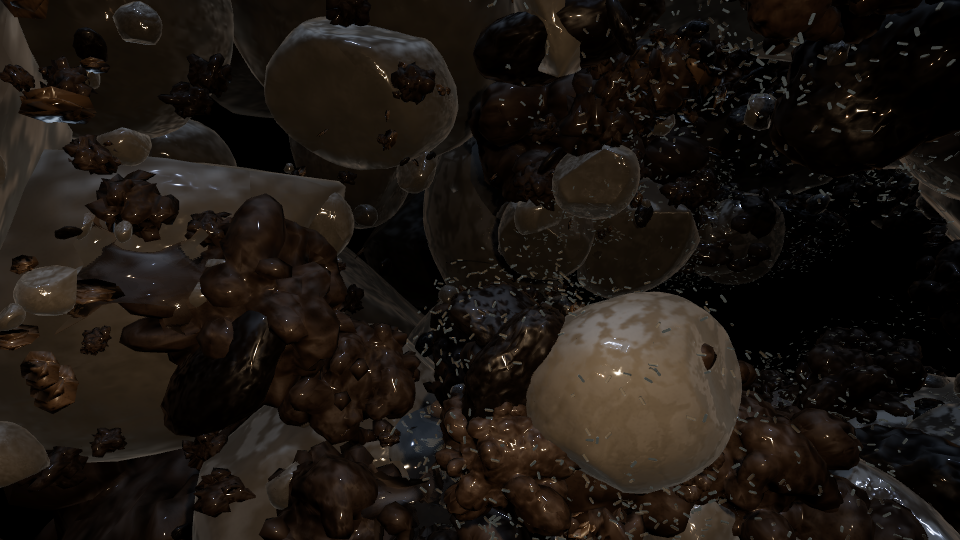
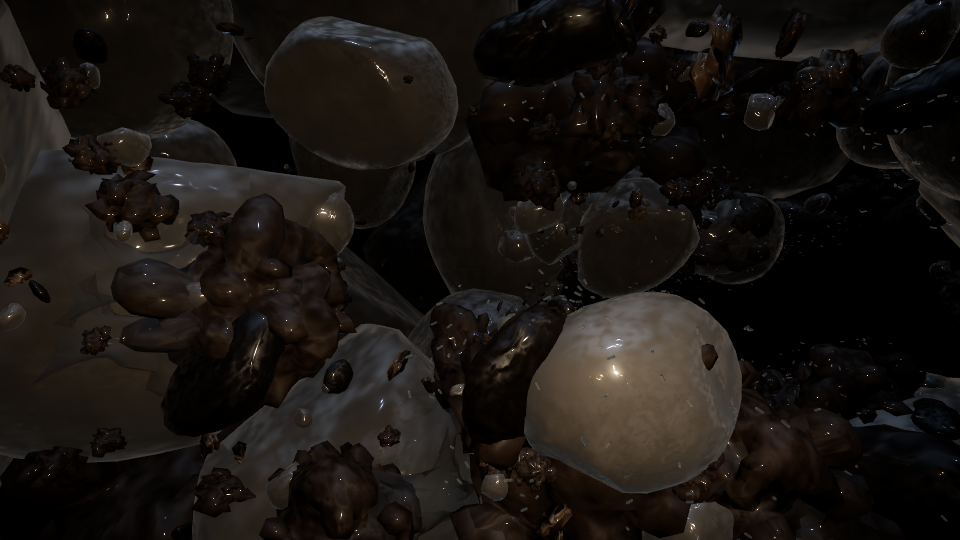
UNDERSOIL M1: loading screen, post-processing, demo sequence, simple controls, VR page on shared game
Claude-Session: https://claude.ai/code/session_01HXHWaeyj425ipGMnohy3Vo

diff --git a/undersoil/src/pages/vr.ts b/undersoil/src/pages/vr.ts
@@ -1,77 +1,87 @@
 import * as THREE from 'three/webgpu';
 import '../ui/base.css';
+import '../ui/game.css';
 import { createRenderer } from '../core/renderer';
+import { setProgressListener } from '../core/assets';
 import { detectDevice } from '../core/platform';
-import { buildMinScene } from './minscene';
+import { createGame } from '../game/game';
+import { makeDemo } from '../game/demo';
+import { pushOut } from '../game/controls';
 import { makeHud } from './hud';
 
 const errors: string[] = [];
 addEventListener('error', (e) => errors.push(e.message));
 addEventListener('unhandledrejection', (e) => errors.push(String(e.reason)));
 const W = window as unknown as Record<string, unknown>;
+const $ = (id: string) => document.getElementById(id)!;
+/** VR の中での縮尺：身長 1.7 m の人が、土の中では 2 単位（20 µm）になる */
+const RIG_SCALE = 2 / 1.7;
 
 async function main() {
-  const canvas = document.getElementById('view') as HTMLCanvasElement;
-  const btn = document.getElementById('enterVR') as HTMLButtonElement;
-  const msg = document.getElementById('vrMsg')!;
+  const canvas = $('view') as HTMLCanvasElement;
+  const btn = $('enterVR') as HTMLButtonElement; const msg = $('vrMsg');
   const device = detectDevice();
+  setProgressListener((d, t) => { msg.textContent = `読み込み中… ${Math.round((d / Math.max(1, t)) * 100)}%`; });
   // VR 中は WebGL 2 で動かす（Quest 3 のブラウザでは VR 中の WebGPU がまだ試験的なため）
   const { renderer, isWebGPU } = await createRenderer(canvas, 'webgl2', { xr: true });
-  renderer.xr.enabled = true;
-  renderer.xr.setReferenceSpaceType('local-floor');
-  renderer.xr.setFoveation(1);
-  const hud = makeHud(document.getElementById('hud')!, { device, isWebGPU, tier: 'vr' });
-  const { scene, group } = await buildMinScene('../', { vr: true, count: 60 });
-  // 座った目の高さ（約1.2m）の前方に粒を置く
-  group.position.set(0, 1.2, -1.6); group.scale.setScalar(0.45);
-  const rig = new THREE.Group(); scene.add(rig);
-  const camera = new THREE.PerspectiveCamera(70, 1, 0.05, 100);
-  camera.position.set(0, 1.2, 0); rig.add(camera);
-  const resize = () => {
-    if (renderer.xr.isPresenting) return;
-    renderer.setPixelRatio(Math.min(devicePixelRatio, 2)); renderer.setSize(innerWidth, innerHeight, false);
-    camera.aspect = innerWidth / innerHeight; camera.updateProjectionMatrix();
-  };
+  renderer.xr.enabled = true; renderer.xr.setReferenceSpaceType('local-floor'); renderer.xr.setFoveation(1);
+  const hud = makeHud($('hud'), { device, isWebGPU, tier: 'vr' });
+  const game = await createGame(renderer, '../', 'vr');
+  const { scene, camera, world } = game;
+  // リグ：プレイヤーの体の位置。カメラ（頭）はこの中で、ヘッドセットの動きだけで動く。演出でカメラを勝手に動かさない
+  const rig = new THREE.Group(); rig.scale.setScalar(RIG_SCALE); scene.add(rig); rig.add(camera);
+  const start = world.path.getPointAt(0.03); rig.position.copy(start); rig.position.y -= 1.2;
+  const ahead = world.path.getPointAt(0.09); rig.rotation.y = Math.atan2(-(ahead.x - start.x), -(ahead.z - start.z));
+  camera.position.set(0, 1.25, 0); // ヘッドセットなしの確認用：座った目の高さ
+  const demo = makeDemo(world);
+  const resize = () => { if (renderer.xr.isPresenting) return; renderer.setPixelRatio(Math.min(devicePixelRatio, 1.5)); renderer.setSize(innerWidth, innerHeight, false); camera.aspect = innerWidth / innerHeight; camera.updateProjectionMatrix(); };
   addEventListener('resize', resize); resize();
 
   // 画面上での見回し（ヘッドセットなしの確認用）
   let yaw = 0, pitch = 0, drag = false, px = 0, py = 0;
   canvas.addEventListener('pointerdown', (e) => { drag = true; px = e.clientX; py = e.clientY; });
   addEventListener('pointerup', () => { drag = false; });
-  addEventListener('pointermove', (e) => {
-    if (!drag || renderer.xr.isPresenting) return;
-    yaw -= (e.clientX - px) * 0.004; pitch = Math.max(-1.2, Math.min(1.2, pitch - (e.clientY - py) * 0.004)); px = e.clientX; py = e.clientY;
-  });
+  addEventListener('pointermove', (e) => { if (!drag || renderer.xr.isPresenting) return; yaw -= (e.clientX - px) * 0.004; pitch = Math.max(-1.2, Math.min(1.2, pitch - (e.clientY - py) * 0.004)); px = e.clientX; py = e.clientY; });
 
   const xr = (navigator as Navigator & { xr?: XRSystem }).xr;
   let supported = false;
   try { supported = !!xr && await xr.isSessionSupported('immersive-vr'); } catch { supported = false; }
-  if (!supported) {
-    btn.disabled = true;
-    msg.textContent = xr ? 'このブラウザは VR に対応していません。Meta Quest 3 の標準ブラウザで開いてください。画面をドラッグすると見回せます。'
-      : 'WebXR が使えません。Meta Quest 3 の標準ブラウザで開いてください。画面をドラッグすると見回せます。';
-  } else {
-    msg.textContent = '座って遊ぶのがおすすめです。ときどき休憩をとり、気分が悪くなったらすぐに中断してください。';
-  }
+  await renderer.compileAsync(scene, camera);
+  if (!supported) { btn.disabled = true; msg.textContent = 'このブラウザは VR に対応していません。Meta Quest 3 の標準ブラウザで開いてください。画面をドラッグすると見回せます。'; }
+  else msg.textContent = '座って遊ぶのがおすすめです。左スティックで移動、右スティックで向きを変えます。ときどき休憩をとり、気分が悪くなったらすぐに中断してください。';
+  setTimeout(() => demo.start(), 4000);
   let session: XRSession | null = null;
   btn.addEventListener('click', async () => {
     if (session) { await session.end(); return; }
     try {
       session = await xr!.requestSession('immersive-vr', { optionalFeatures: ['local-floor', 'bounded-floor', 'hand-tracking'] });
-      session.addEventListener('end', () => { session = null; btn.textContent = 'VR で遊ぶ'; document.body.classList.remove('in-vr'); resize(); });
+      session.addEventListener('end', () => { session = null; btn.textContent = 'VR で遊ぶ'; document.body.classList.remove('in-vr'); camera.position.set(0, 1.25, 0); resize(); });
       await renderer.xr.setSession(session);
       btn.textContent = 'VR を終了'; document.body.classList.add('in-vr');
     } catch (e) { msg.textContent = 'VR を開始できませんでした：' + (e as Error).message; errors.push(String(e)); }
   });
 
-  let frames = 0;
+  // 移動：左スティックで、頭の向きへなめらかに（速度は控えめ、加減速は穏やか）。右スティックは 30 度ずつ向きを変える
+  const vel = new THREE.Vector3(), want = new THREE.Vector3(), head = new THREE.Vector3(), fwd = new THREE.Vector3(), right = new THREE.Vector3(), q = new THREE.Quaternion();
+  let snapReady = true, frames = 0, last = 0;
   renderer.setAnimationLoop((now: number) => {
-    const t = now / 1000;
-    group.rotation.y = t * 0.2;
-    if (!renderer.xr.isPresenting) camera.rotation.set(pitch, yaw, 0, 'YXZ');
+    const dt = last ? Math.min(0.1, (now - last) / 1000) : 0; last = now;
+    if (renderer.xr.isPresenting && session) {
+      let mx = 0, mz = 0, tx = 0;
+      for (const src of session.inputSources) { const a = src.gamepad?.axes; if (!a) continue; const x = a[2] ?? a[0] ?? 0, y = a[3] ?? a[1] ?? 0; if (src.handedness === 'left') { mx = Math.abs(x) > 0.15 ? x : 0; mz = Math.abs(y) > 0.15 ? y : 0; } else if (src.handedness === 'right') tx = x; }
+      if (Math.abs(tx) > 0.6 && snapReady) { rig.rotation.y -= Math.sign(tx) * Math.PI / 6; snapReady = false; } else if (Math.abs(tx) < 0.3) snapReady = true;
+      const xrCam = renderer.xr.getCamera(); xrCam.getWorldQuaternion(q);
+      fwd.set(0, 0, -1).applyQuaternion(q); right.set(1, 0, 0).applyQuaternion(q);
+      want.set(0, 0, 0).addScaledVector(fwd, -mz).addScaledVector(right, mx); if (want.lengthSq() > 1) want.normalize();
+      vel.lerp(want.multiplyScalar(3.2), 1 - Math.exp(-dt * 3));
+      rig.position.addScaledVector(vel, dt);
+      // 頭の位置で粒との当たりを取り、ずれた分だけ体を戻す
+      xrCam.getWorldPosition(head); const before = head.clone(); pushOut(head, world.colliders, 0.7); rig.position.add(head.sub(before));
+    } else camera.rotation.set(pitch, yaw, 0, 'YXZ');
+    demo.update(dt); game.update(dt, now / 1000);
     renderer.render(scene, camera);
     hud.tick(now); frames++;
-    W.__state = { ready: frames > 3, frames, isWebGPU, supported, presenting: renderer.xr.isPresenting, errors };
+    W.__state = { ready: frames > 3, frames, isWebGPU, supported, presenting: renderer.xr.isPresenting, errors, stats: world.stats };
   });
 }
-main().catch((e) => { errors.push(String(e)); console.error(e); W.__state = { ready: false, failed: true, errors }; });
+main().catch((e) => { errors.push(String(e)); console.error(e); $('vrMsg').textContent = '起動に失敗しました：' + String(e); W.__state = { ready: false, failed: true, errors }; });

diff --git a/undersoil/src/pages/screen.ts b/undersoil/src/pages/screen.ts
@@ -1,8 +1,14 @@
 import * as THREE from 'three/webgpu';
 import '../ui/base.css';
+import '../ui/game.css';
+import facts from '../data/facts.json';
 import { createRenderer } from '../core/renderer';
+import { setProgressListener } from '../core/assets';
 import { detectDevice, pickTier, rendererPref, type QualityTier } from '../core/platform';
 import { createGame } from '../game/game';
+import { makeFreeControls } from '../game/controls';
+import { makeDemo } from '../game/demo';
+import { makePost } from '../game/post';
 import { makeHud } from './hud';
 
 const errors: string[] = [];
@@ -10,40 +16,78 @@ addEventListener('error', (e) => errors.push(e.message));
 addEventListener('unhandledrejection', (e) => errors.push(String(e.reason)));
 const W = window as unknown as Record<string, unknown>;
 const Q = new URLSearchParams(location.search);
+const $ = (id: string) => document.getElementById(id)!;
+
+function runFacts() {
+  const list = facts as { name: string; text: string }[]; if (!list.length) return () => {};
+  let i = Math.floor(Math.random() * list.length); const el = $('fact');
+  const show = () => { const f = list[i++ % list.length]; el.style.opacity = '0'; setTimeout(() => { el.innerHTML = ''; const s = document.createElement('small'); s.textContent = f.name; el.append(s, document.createTextNode(f.text)); el.style.opacity = '.92'; }, 400); };
+  show(); const id = setInterval(show, 5200); return () => clearInterval(id);
+}
 
 async function main() {
-  const canvas = document.getElementById('view') as HTMLCanvasElement;
+  const canvas = $('view') as HTMLCanvasElement;
   const device = detectDevice();
+  if (Q.has('clean')) document.body.classList.add('clean');
+  const stopFacts = runFacts();
+  setProgressListener((d, t) => { ($('loadBar') as HTMLElement).style.width = `${Math.round((d / Math.max(1, t)) * 90)}%`; });
   const { renderer, isWebGPU, fallbackReason } = await createRenderer(canvas, rendererPref());
   const tier = (Q.get('tier') as QualityTier | null) ?? pickTier(device, isWebGPU);
-  const hud = makeHud(document.getElementById('hud')!, { device, isWebGPU, tier, note: fallbackReason });
+  const hud = makeHud($('hud'), { device, isWebGPU, tier, note: fallbackReason });
   const game = await createGame(renderer, './', tier);
   const { scene, camera, world } = game;
   renderer.shadowMap.enabled = game.q.shadows > 0;
-  renderer.toneMappingExposure = 1.0;
+  const post = Q.has('nopost') || !game.q.post.length ? null : makePost(renderer, scene, camera, game.q.post);
   const resize = () => {
     renderer.setPixelRatio(Math.min(devicePixelRatio, game.q.maxDpr)); renderer.setSize(innerWidth, innerHeight, false);
     camera.aspect = innerWidth / innerHeight; camera.updateProjectionMatrix();
   };
-  addEventListener('resize', resize); resize();
-  if (device === 'quest') document.getElementById('toVR')!.classList.add('primary');
-  // 確認用：?cam=0..1（道のりの位置）、?wet=0..1（全区画の濡れ）、?t=秒（時間を固定）
-  const camT = Q.get('cam'), wetQ = Q.get('wet'), fixedT = Q.get('t');
-  const freeze = Number(Q.get('freeze') ?? 0); // 確認用：このコマ数だけ描いて止める（ソフトウェア描画での撮影用）
+  addEventListener('resize', resize); addEventListener('orientationchange', resize); resize();
+  if (device === 'quest') $('toVR').classList.add('primary');
+
+  // 確認用：?cam=0..1（道のりの位置）、?wet=0..1（全区画の濡れ）、?t=秒（時間を固定）、?freeze=コマ数、?pos=x,y,z,lx,ly,lz
+  const camT = Q.get('cam'), wetQ = Q.get('wet'), fixedT = Q.get('t'), dbg = Q.get('pos');
+  const freeze = Number(Q.get('freeze') ?? 0);
+  const testing = camT !== null || dbg !== null || freeze > 0;
   if (wetQ !== null) game.setWetAll(Number(wetQ));
-  const look = new THREE.Vector3(); let frames = 0, last = 0;
+  const demo = makeDemo(world);
+  const controls = makeFreeControls(camera, canvas, world.colliders, $('stick'));
+  let touring = true; controls.enabled = false;
+  const look = new THREE.Vector3();
+  const placeOnPath = (u: number) => { world.path.getPointAt(Math.min(0.985, u), camera.position); world.path.getPointAt(Math.min(1, u + 0.06), look); camera.position.y += 1.0; camera.lookAt(look); };
+  placeOnPath(0.02);
+
+  // シェーダーの初回コンパイルの引っかかりを避けるため、読み込み中に準備しておく
+  await renderer.compileAsync(scene, camera);
+  ($('loadBar') as HTMLElement).style.width = '100%';
+  const begin = () => { $('loading').classList.add('hide'); stopFacts(); if (wetQ === null && !testing) setTimeout(() => demo.start(), 2500); };
+  if (testing) begin(); else { const b = $('start') as HTMLButtonElement; b.hidden = false; b.addEventListener('click', begin, { once: true }); }
+
+  $('water').addEventListener('click', () => demo.start());
+  $('dry').addEventListener('click', () => demo.dry());
+  $('tour').addEventListener('click', () => {
+    touring = !touring; controls.enabled = !touring; $('tour').textContent = touring ? '自分で動く' : '自動で巡る';
+    if (!touring) { const e = new THREE.Euler().setFromQuaternion(camera.quaternion, 'YXZ'); controls.yaw = e.y; controls.pitch = e.x; }
+  });
+  $('fs').addEventListener('click', () => { if (document.fullscreenElement) void document.exitFullscreen(); else void document.documentElement.requestFullscreen?.().catch(() => {}); });
+  if (!document.documentElement.requestFullscreen) $('fs').style.display = 'none';
+  let hidden = false; document.addEventListener('visibilitychange', () => { hidden = document.hidden; last = 0; });
+
+  let frames = 0, last = 0, tourU = 0.02, vitShown = -1;
   renderer.setAnimationLoop((now: number) => {
+    if (hidden) return;
     const t = fixedT !== null ? Number(fixedT) : now / 1000; const dt = last ? Math.min(0.1, (now - last) / 1000) : 0; last = now;
-    const u = camT !== null ? Number(camT) : (Math.sin(t * 0.05 - 1.5) * 0.5 + 0.5) * 0.9;
-    world.path.getPointAt(Math.min(0.985, u), camera.position); world.path.getPointAt(Math.min(1, u + 0.06), look);
-    camera.position.y += 1.0;
-    const dbg = Q.get('pos'); if (dbg) { const v = dbg.split(',').map(Number); camera.position.set(v[0], v[1], v[2]); look.set(v[3], v[4], v[5]); }
-    camera.lookAt(look);
-    if (wetQ === null) game.update(dt, t);
-    renderer.render(scene, camera);
+    if (dbg) { const v = dbg.split(',').map(Number); camera.position.set(v[0], v[1], v[2]); camera.lookAt(v[3], v[4], v[5]); }
+    else if (camT !== null) placeOnPath(Number(camT));
+    else if (touring) { tourU = (tourU + dt * 0.012) % 1; placeOnPath(0.02 + 0.9 * (0.5 - 0.5 * Math.cos(tourU * Math.PI * 2))); }
+    else controls.update(dt);
+    if (wetQ === null) { demo.update(dt); game.update(dt, t); }
+    if (post) post.render(); else renderer.render(scene, camera);
     hud.tick(now); frames++;
+    const vit = Math.round(world.grid.mean() * 100);
+    if (vit !== vitShown) { vitShown = vit; $('vitNum').textContent = String(vit); ($('vitBar') as HTMLElement).style.width = vit + '%'; }
     const frozen = freeze > 0 && frames >= freeze; if (frozen) renderer.setAnimationLoop(null);
-    W.__state = { ready: frames > 3, frozen, frames, isWebGPU, tier, device, errors, stats: world.stats, bridges: game.bridges.count, swarm: game.swarm.count, b0: game.bridges.centers.slice(0, 40).map((c) => [Math.round(c.x), Math.round(c.y), Math.round(c.z), Math.round(world.distToPath(c))]) };
+    W.__state = { ready: frames > 3, frozen, frames, isWebGPU, tier, device, errors, stats: world.stats, vitality: vit, bridges: game.bridges.count, swarm: game.swarm.count };
   });
 }
 main().catch((e) => { errors.push(String(e)); console.error(e); W.__state = { ready: false, failed: true, errors }; });

diff --git a/undersoil/src/game/controls.ts b/undersoil/src/game/controls.ts
@@ -1,0 +1,50 @@
+// M1 用の簡易な移動（M2 で作り込む）：見回しはドラッグ、移動は WASD／左スティック／タッチの仮想スティック。粒にはめり込まない。
+import * as THREE from 'three/webgpu';
+import type { Collider } from './world';
+
+export interface FreeControls { update(dt: number): void; enabled: boolean; yaw: number; pitch: number; moving: boolean; }
+
+export function pushOut(p: THREE.Vector3, colliders: Collider[], radius: number) {
+  for (let it = 0; it < 2; it++) for (const c of colliders) {
+    const dx = p.x - c.x, dy = p.y - c.y, dz = p.z - c.z, rr = c.r + radius, d2 = dx * dx + dy * dy + dz * dz;
+    if (d2 < rr * rr && d2 > 1e-6) { const d = Math.sqrt(d2), k = (rr - d) / d; p.x += dx * k; p.y += dy * k; p.z += dz * k; }
+  }
+}
+
+export function makeFreeControls(camera: THREE.Camera, dom: HTMLElement, colliders: Collider[], stick: HTMLElement | null): FreeControls {
+  const keys = new Set<string>(); const vel = new THREE.Vector3(); const move = new THREE.Vector2();
+  const c: FreeControls = { enabled: true, yaw: 0, pitch: 0, moving: false, update };
+  const e = new THREE.Euler().setFromQuaternion(camera.quaternion, 'YXZ'); c.yaw = e.y; c.pitch = e.x;
+  addEventListener('keydown', (ev) => keys.add(ev.code)); addEventListener('keyup', (ev) => keys.delete(ev.code)); addEventListener('blur', () => keys.clear());
+  let lookId = -1, lx = 0, ly = 0, stickId = -1, sx = 0, sy = 0;
+  dom.addEventListener('pointerdown', (ev) => {
+    if (stick && ev.pointerType === 'touch' && ev.clientX < innerWidth * 0.4 && ev.clientY > innerHeight * 0.4) { stickId = ev.pointerId; sx = ev.clientX; sy = ev.clientY; stick.style.left = sx + 'px'; stick.style.top = sy + 'px'; stick.classList.add('on'); }
+    else { lookId = ev.pointerId; lx = ev.clientX; ly = ev.clientY; }
+    dom.setPointerCapture(ev.pointerId);
+  });
+  dom.addEventListener('pointermove', (ev) => {
+    if (ev.pointerId === lookId) { const k = ev.pointerType === 'touch' ? 0.0045 : 0.003; c.yaw -= (ev.clientX - lx) * k; c.pitch = Math.max(-1.45, Math.min(1.45, c.pitch - (ev.clientY - ly) * k)); lx = ev.clientX; ly = ev.clientY; }
+    if (ev.pointerId === stickId) { move.set((ev.clientX - sx) / 60, (ev.clientY - sy) / 60); if (move.length() > 1) move.normalize(); const knob = stick!.firstElementChild as HTMLElement; knob.style.transform = `translate(${move.x * 40}px, ${move.y * 40}px)`; }
+  });
+  const end = (ev: PointerEvent) => { if (ev.pointerId === lookId) lookId = -1; if (ev.pointerId === stickId) { stickId = -1; move.set(0, 0); stick!.classList.remove('on'); (stick!.firstElementChild as HTMLElement).style.transform = ''; } };
+  dom.addEventListener('pointerup', end); dom.addEventListener('pointercancel', end);
+  const fwd = new THREE.Vector3(), right = new THREE.Vector3(), want = new THREE.Vector3();
+  function update(dt: number) {
+    if (!c.enabled) return;
+    let mx = move.x, mz = move.y, my = 0;
+    if (keys.has('KeyW') || keys.has('ArrowUp')) mz -= 1; if (keys.has('KeyS') || keys.has('ArrowDown')) mz += 1;
+    if (keys.has('KeyA') || keys.has('ArrowLeft')) mx -= 1; if (keys.has('KeyD') || keys.has('ArrowRight')) mx += 1;
+    if (keys.has('Space')) my += 1; if (keys.has('KeyC') || keys.has('ShiftLeft')) my -= 1;
+    const gp = navigator.getGamepads?.()[0];
+    if (gp) { const dz = (v: number) => (Math.abs(v) < 0.15 ? 0 : v); mx += dz(gp.axes[0] ?? 0); mz += dz(gp.axes[1] ?? 0); c.yaw -= dz(gp.axes[2] ?? 0) * 2.2 * dt; c.pitch = Math.max(-1.45, Math.min(1.45, c.pitch - dz(gp.axes[3] ?? 0) * 1.6 * dt)); if (gp.buttons[0]?.pressed) my += 1; if (gp.buttons[1]?.pressed) my -= 1; }
+    camera.quaternion.setFromEuler(e.set(c.pitch, c.yaw, 0, 'YXZ'));
+    fwd.set(0, 0, -1).applyQuaternion(camera.quaternion); right.set(1, 0, 0).applyQuaternion(camera.quaternion);
+    want.set(0, 0, 0).addScaledVector(fwd, -mz).addScaledVector(right, mx); want.y += my; if (want.lengthSq() > 1) want.normalize();
+    c.moving = want.lengthSq() > 0.01;
+    // 穏やかな加速と減速
+    vel.lerp(want.multiplyScalar(6.0), 1 - Math.exp(-dt * (c.moving ? 5 : 3.5)));
+    camera.position.addScaledVector(vel, dt);
+    pushOut(camera.position, colliders, 0.9);
+  }
+  return c;
+}

diff --git a/undersoil/src/ui/game.css b/undersoil/src/ui/game.css
@@ -1,0 +1,21 @@
+.loading { position: fixed; inset: 0; background: radial-gradient(ellipse at 50% 60%, #1a120b 0%, #070504 70%); display: flex; flex-direction: column; align-items: center; justify-content: center; gap: 22px; z-index: 20; transition: opacity .8s ease; padding: 24px; text-align: center; }
+.loading.hide { opacity: 0; pointer-events: none; }
+.loading h1 { font-weight: 300; letter-spacing: .5em; font-size: clamp(28px, 6vw, 64px); margin: 0; padding-left: .5em; color: var(--ink); }
+.loading .sub { color: var(--dim); letter-spacing: .3em; font-size: clamp(12px, 1.6vw, 16px); }
+.bar { width: min(420px, 70vw); height: 2px; background: var(--line); position: relative; overflow: hidden; }
+.bar i { position: absolute; left: 0; top: 0; bottom: 0; width: 0; background: var(--accent); transition: width .3s ease; }
+.fact { max-width: 34em; min-height: 4.5em; color: var(--ink); font-size: clamp(15px, 1.9vw, 20px); line-height: 1.9; opacity: .92; transition: opacity .5s; }
+.fact small { display: block; color: var(--dim); font-size: .8em; letter-spacing: .15em; margin-bottom: .3em; }
+.loading .btn { font-size: clamp(17px, 2.2vw, 24px); padding: 18px 40px; }
+.loading .btn[hidden] { display: none; }
+.actions { position: fixed; left: 50%; bottom: max(18px, env(safe-area-inset-bottom)); transform: translateX(-50%); display: flex; gap: 10px; flex-wrap: wrap; justify-content: center; width: max-content; max-width: 96vw; }
+.scale-tag { position: fixed; left: max(12px, env(safe-area-inset-left)); bottom: max(18px, env(safe-area-inset-bottom)); color: var(--dim); font-size: 13px; letter-spacing: .1em; pointer-events: none; }
+.scale-tag b { display: inline-block; width: 60px; height: 1px; background: var(--ink); vertical-align: middle; margin-right: 8px; }
+.stick { position: fixed; width: 110px; height: 110px; margin: -55px 0 0 -55px; border-radius: 50%; border: 1px solid var(--line); background: rgba(239,230,216,.05); display: none; pointer-events: none; z-index: 5; }
+.stick.on { display: block; }
+.stick i { position: absolute; left: 50%; top: 50%; width: 46px; height: 46px; margin: -23px; border-radius: 50%; background: rgba(239,230,216,.35); }
+.vital { position: fixed; right: max(12px, env(safe-area-inset-right)); bottom: max(18px, env(safe-area-inset-bottom)); width: 150px; color: var(--dim); font-size: 12px; letter-spacing: .12em; pointer-events: none; text-align: right; }
+.vital .bar { width: 100%; margin-top: 6px; }
+.vital .bar i { background: var(--leaf); }
+@media (max-width: 720px) { .scale-tag, .vital { bottom: 84px; } .nav .btn { padding: 10px 12px; font-size: 13px; } }
+body.clean .hud, body.clean .nav, body.clean .actions, body.clean .scale-tag, body.clean .vital, body.clean .caption { display: none; }

diff --git a/undersoil/src/game/post.ts b/undersoil/src/game/post.ts
@@ -1,0 +1,24 @@
+// 後処理（画面版のみ。VR では使わない）：ブルーム、色調整、周辺減光、わずかな粒状感
+import * as THREE from 'three/webgpu';
+import { pass, screenUV, smoothstep, mix, float, vec3, time, fract, sin, dot, vec2 } from 'three/tsl';
+import { bloom } from 'three/addons/tsl/display/BloomNode.js';
+
+export function makePost(renderer: THREE.WebGPURenderer, scene: THREE.Scene, camera: THREE.Camera, effects: string[]) {
+  const pipe = new THREE.RenderPipeline(renderer);
+  const scenePass = pass(scene, camera);
+  const color = scenePass.getTextureNode('output');
+  let out = color.rgb;
+  if (effects.some((e) => e.startsWith('bloom'))) {
+    const lite = effects.includes('bloom-lite');
+    out = out.add(bloom(color, lite ? 0.22 : 0.3, lite ? 0.4 : 0.65, 0.9).rgb);
+  }
+  if (effects.includes('grade')) {
+    // 暗部をわずかに寒色へ、明部を暖色へ（映画的な分離）。彩度は上げない
+    const l = dot(out, vec3(0.2126, 0.7152, 0.0722));
+    out = mix(out.mul(vec3(0.98, 1.0, 1.03)), out.mul(vec3(1.06, 1.0, 0.92)), smoothstep(0.02, 0.6, l));
+  }
+  if (effects.includes('vignette')) { const d = screenUV.sub(0.5).length(); out = out.mul(mix(float(1), float(0.42), smoothstep(0.32, 0.86, d))); }
+  if (effects.includes('grain')) { const n = fract(sin(dot(screenUV.add(fract(time)), vec2(12.9898, 78.233))).mul(43758.5453)); out = out.mul(mix(float(0.965), float(1.035), n)); }
+  pipe.outputNode = out;
+  return pipe;
+}

diff --git a/undersoil/src/game/demo.ts b/undersoil/src/game/demo.ts
@@ -1,0 +1,22 @@
+// M1 の見せ場：乾いた土が、入口から順に水を得て目覚めていく流れを自動で進める（M3 でプレイヤーの手入れに置き換える）
+import type { World } from './world';
+
+export interface Demo { update(dt: number): void; start(): void; dry(): void; progress: number; running: boolean; }
+export function makeDemo(world: World, secondsPerCell = 3.2): Demo {
+  const g = world.grid; let t = 0, linked = 0;
+  const d: Demo = {
+    progress: 0, running: false,
+    start() { d.running = true; },
+    dry() { d.running = false; t = 0; linked = 0; for (let i = 0; i < g.count; i++) { g.cells[i].dryness = 400; for (const j of [...g.links[i]]) g.unlink(i, j); } },
+    update(dt) {
+      if (!d.running) { if (g.cells[0].dryness > 1 && g.cells.every((c) => c.water === 0)) for (const c of g.cells) c.dryness = 1; return; }
+      for (const c of g.cells) c.dryness = 1;
+      t += dt;
+      const upto = Math.min(g.count, Math.floor(t / secondsPerCell) + 1);
+      for (; linked < upto - 1; linked++) g.link(linked, linked + 1); // 水の橋がかかる
+      for (let i = 0; i < upto; i++) { g.addWater(i, 0.5 * dt); g.addCarbon(i, 0.12 * dt); }
+      d.progress = Math.min(1, t / (secondsPerCell * g.count + 20));
+    },
+  };
+  return d;
+}

diff --git a/undersoil/index.html b/undersoil/index.html
@@ -10,11 +10,26 @@
 <canvas id="view"></canvas>
 <div class="hud" id="hud">起動中…</div>
 <nav class="nav">
+  <button class="btn" id="fs">全画面</button>
   <a class="btn" id="toVR" href="./vr/">VR で遊ぶ</a>
   <a class="btn" href="./diag/">実機診断</a>
   <a class="btn" href="./progress/">進捗</a>
 </nav>
-<div class="caption">UNDERSOIL ― 公開経路の確認用ページ（土の粒）</div>
+<div class="scale-tag"><b></b>0.1 mm（髪の毛の太さほど）</div>
+<div class="vital">土の活力 <span id="vitNum">0</span>%<div class="bar"><i id="vitBar"></i></div></div>
+<div class="actions">
+  <button class="btn primary" id="water">水を運ぶ</button>
+  <button class="btn" id="dry">乾かす</button>
+  <button class="btn" id="tour">自分で動く</button>
+</div>
+<div class="stick" id="stick"><i></i></div>
+<div class="loading" id="loading">
+  <h1>UNDERSOIL</h1>
+  <div class="sub">土の下の、小さな春</div>
+  <div class="bar"><i id="loadBar"></i></div>
+  <div class="fact" id="fact"></div>
+  <button class="btn primary" id="start" hidden>クリックして開始</button>
+</div>
 <script type="module" src="/src/pages/screen.ts"></script>
 </body>
 </html>

diff --git a/undersoil/src/game/env.ts b/undersoil/src/game/env.ts
@@ -20,7 +20,7 @@ export function makeEnvironment(renderer: THREE.WebGPURenderer): THREE.Texture {
 export interface Lights { lamp: THREE.SpotLight; fill: THREE.PointLight; top: THREE.DirectionalLight; hemi: THREE.HemisphereLight; }
 export function addLights(scene: THREE.Scene, camera: THREE.Camera, opts: { shadows: number }): Lights {
   // 主人公のライト：暖色のスポット。影を落とすのはこれだけ
-  const lamp = new THREE.SpotLight(0xffe2bd, 60, 160, 1.0, 0.8, 1.15);
+  const lamp = new THREE.SpotLight(0xffdcb0, 80, 160, 1.0, 0.8, 1.15);
   lamp.position.set(3.2, 2.6, 0.5); lamp.target.position.set(-0.6, -1.2, -14);
   camera.add(lamp); camera.add(lamp.target);
   if (opts.shadows > 0) { lamp.castShadow = true; lamp.shadow.mapSize.set(1024, 1024); lamp.shadow.camera.near = 1; lamp.shadow.camera.far = 90; lamp.shadow.bias = -0.0015; lamp.shadow.normalBias = 0.25; }
